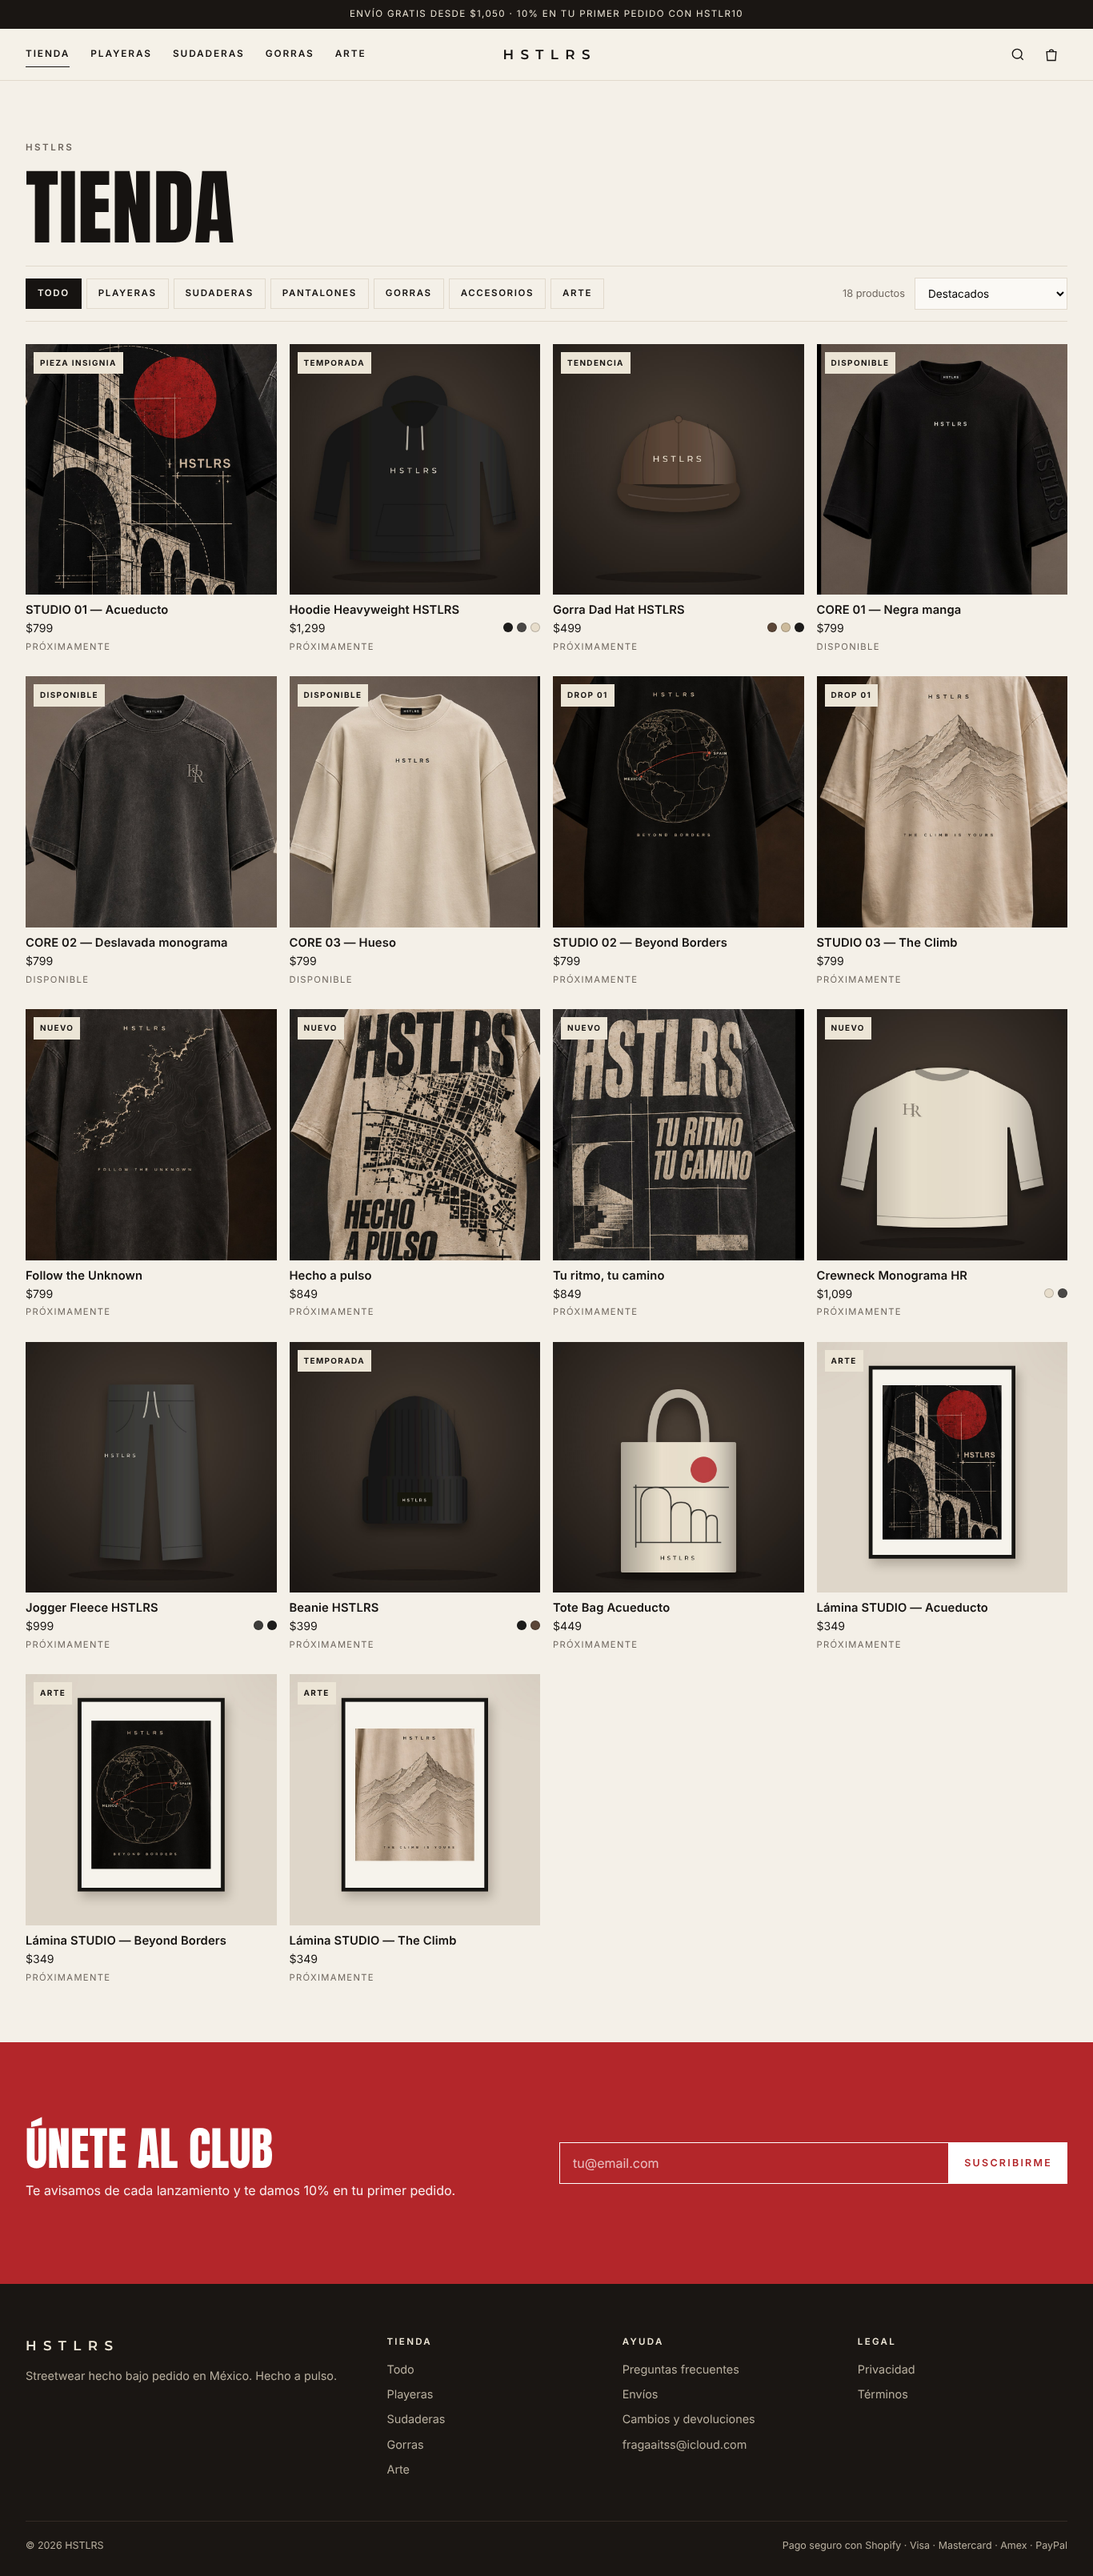
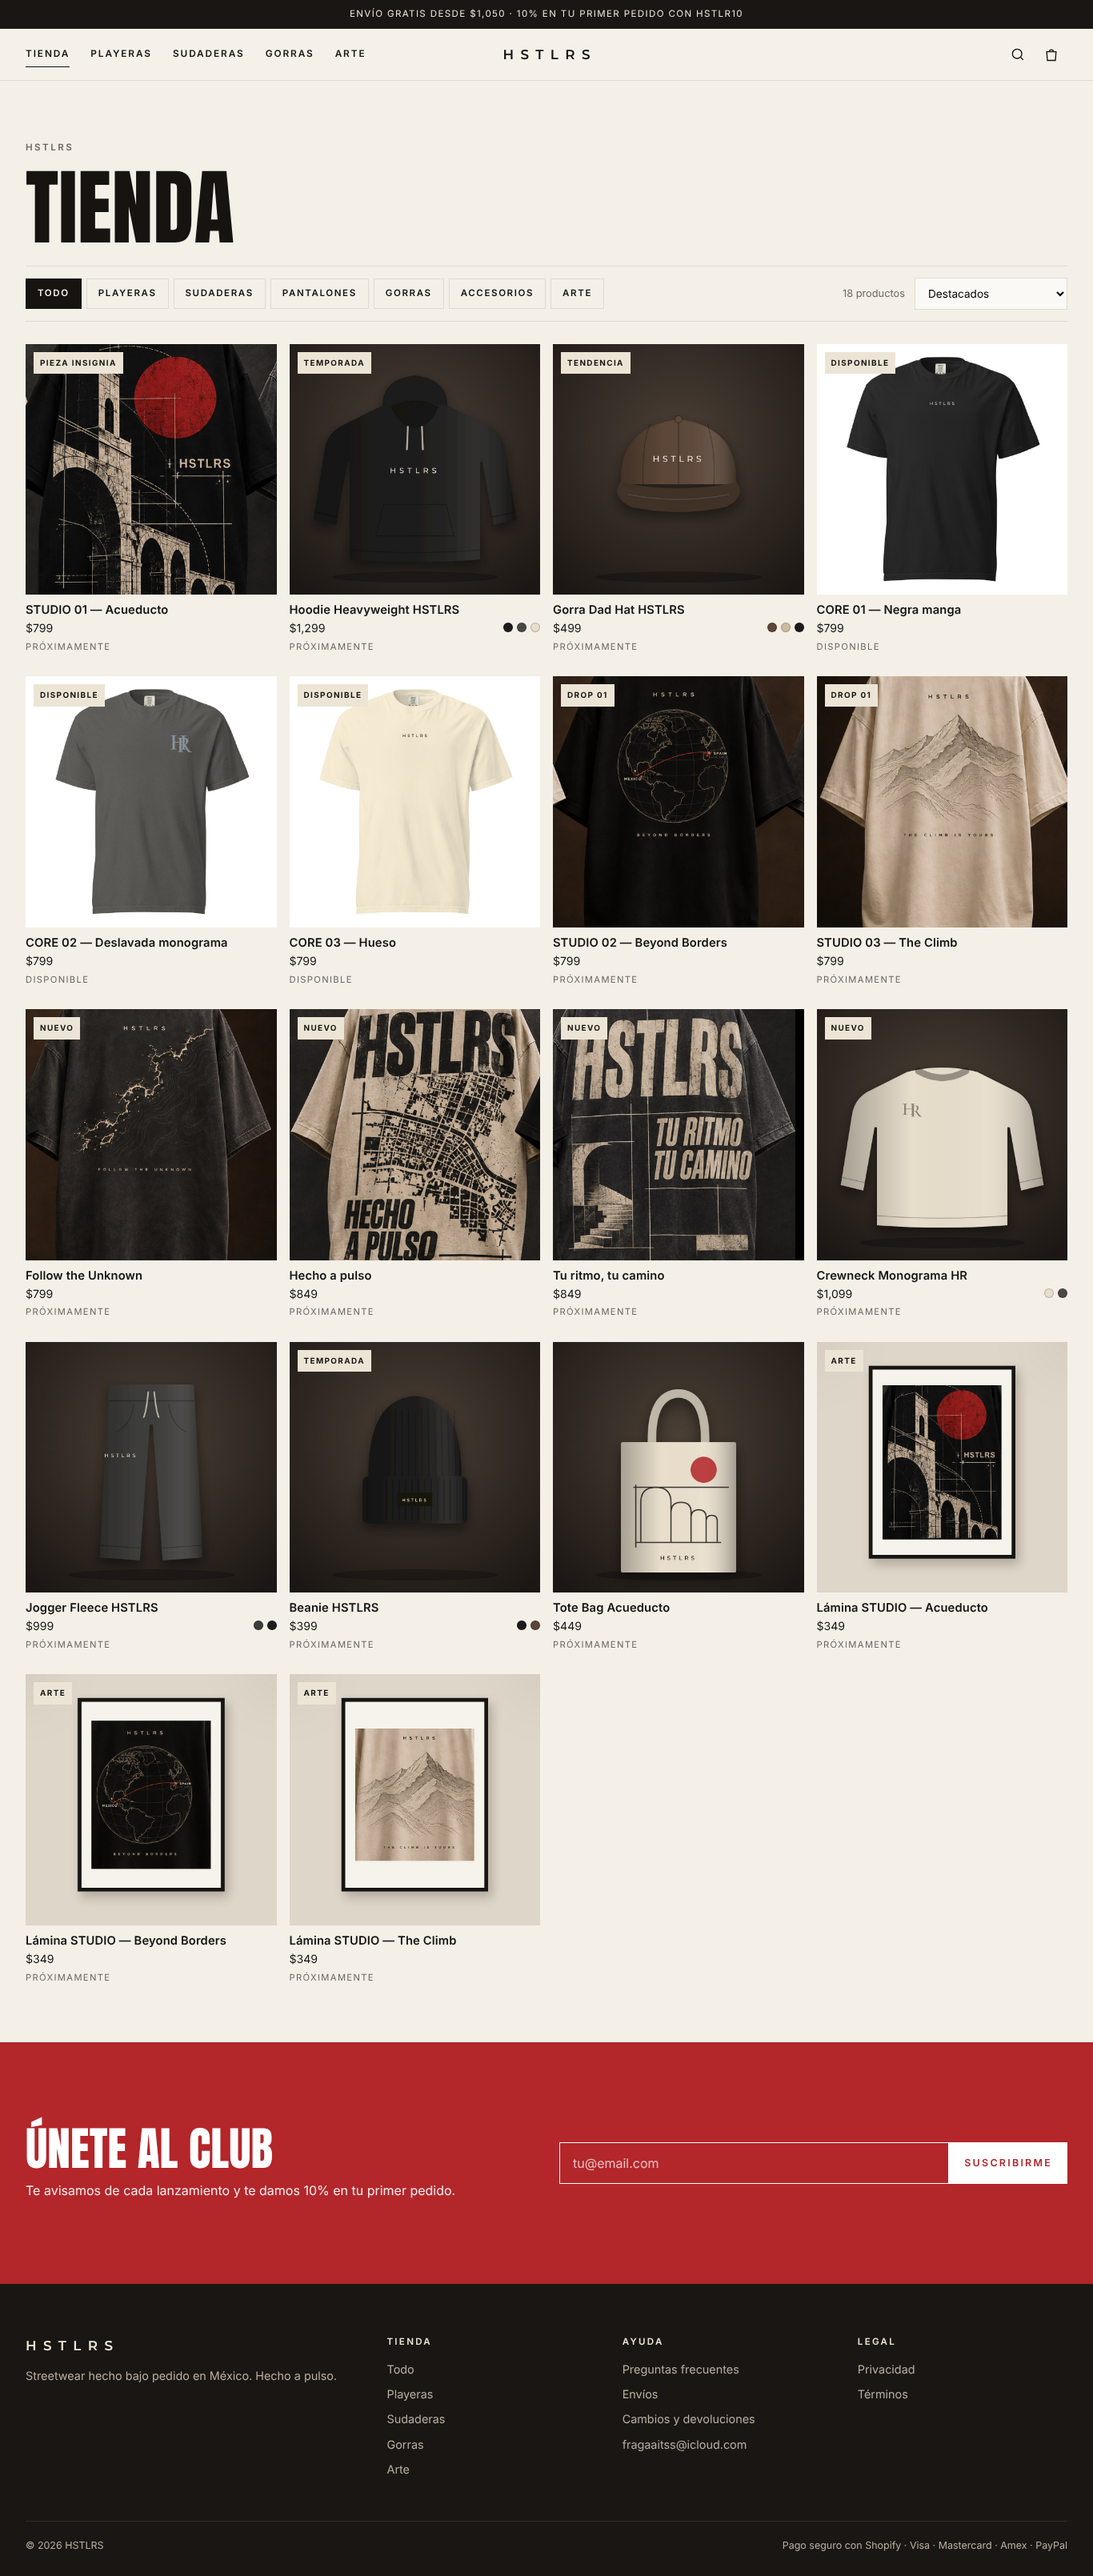
Fotos reales de Printful para CORE 01-03
Claude-Session: https://claude.ai/code/session_013DNV1jFrcSM7ktCTz4AAyr

Changed region(s): [[0.0, 0.2485, 0.4919, 0.3728], [0.7379, 0.1243, 0.9839, 0.2485]]

diff --git a/assets/js/catalog.js b/assets/js/catalog.js
@@ -14,6 +14,7 @@
   const D = "assets/img/drop/";
   const C = "assets/img/concept/";
   const A = "assets/img/arte/";
+  const P = "assets/img/printful/"; // fotos reales del producto (generador de Printful)
   const TEE_SIZES = ["S", "M", "L", "XL", "2XL"];
   const teeDetails = [
     "Playera oversize de algodón pesado, hombro caído",
@@ -34,8 +35,8 @@
     {
       id: "core-01-negra-relieve", name: "CORE 01 — Negra manga", collection: "CORE", category: "playeras",
       price: 799, sizePrice: { "2XL": 849 }, badge: "Disponible",
-      colors: [{ name: "Negro", hex: "#141414", image: D + "core-01-negra-relieve.jpg" }],
-      gallery: [D + "lookbook-1.jpg"], sizes: TEE_SIZES,
+      colors: [{ name: "Negro", hex: "#141414", image: P + "core01-front.jpg" }],
+      gallery: [P + "core01-manga.jpg"], sizes: TEE_SIZES,
       description: "Hecho a pulso. La base de todo, en negro: HSTLRS discreto al frente y el nombre en vertical, estampado tono sobre tono, a lo largo de la manga izquierda. Sin ruido: se nota de cerca.",
       details: coreDetails, published: true,
       shopify: variants([67954952110353, 67954952143121, 67954952175889, 67954952208657, 67954952241425]),
@@ -43,8 +44,8 @@
     {
       id: "core-02-deslavada-monograma", name: "CORE 02 — Deslavada monograma", collection: "CORE", category: "playeras",
       price: 799, sizePrice: { "2XL": 849 }, badge: "Disponible",
-      colors: [{ name: "Carbón deslavado", hex: "#3c3b3a", image: D + "core-02-deslavada-monograma.jpg" }],
-      gallery: [D + "lookbook-1.jpg"], sizes: TEE_SIZES,
+      colors: [{ name: "Carbón deslavado", hex: "#3c3b3a", image: P + "core02-front.jpg" }],
+      gallery: [P + "core02-back.jpg"], sizes: TEE_SIZES,
       description: "El desgaste que no se finge. Carbón teñido en prenda con aspecto vintage y el monograma HR bordado en gris en el pecho.",
       details: ["Monograma bordado en el pecho izquierdo", ...coreDetails], published: true,
       shopify: variants([67954952339729, 67954952372497, 67954952405265, 67954952438033, 67954952470801]),
@@ -52,8 +53,8 @@
     {
       id: "core-03-hueso-etiqueta", name: "CORE 03 — Hueso", collection: "CORE", category: "playeras",
       price: 799, sizePrice: { "2XL": 849 }, badge: "Disponible",
-      colors: [{ name: "Hueso", hex: "#e9e1d1", image: D + "core-03-hueso-etiqueta.jpg" }],
-      gallery: [D + "lookbook-1.jpg"], sizes: TEE_SIZES,
+      colors: [{ name: "Hueso", hex: "#e9e1d1", image: P + "core03-front.jpg" }],
+      gallery: [P + "core03-back.jpg"], sizes: TEE_SIZES,
       description: "Lo esencial, en hueso. HSTLRS discreto al frente, en negro. La pieza que combina con todo tu clóset.",
       details: coreDetails, published: true,
       shopify: variants([67954952536337, 67954952569105, 67954952601873, 67954952634641, 67954952667409]),
